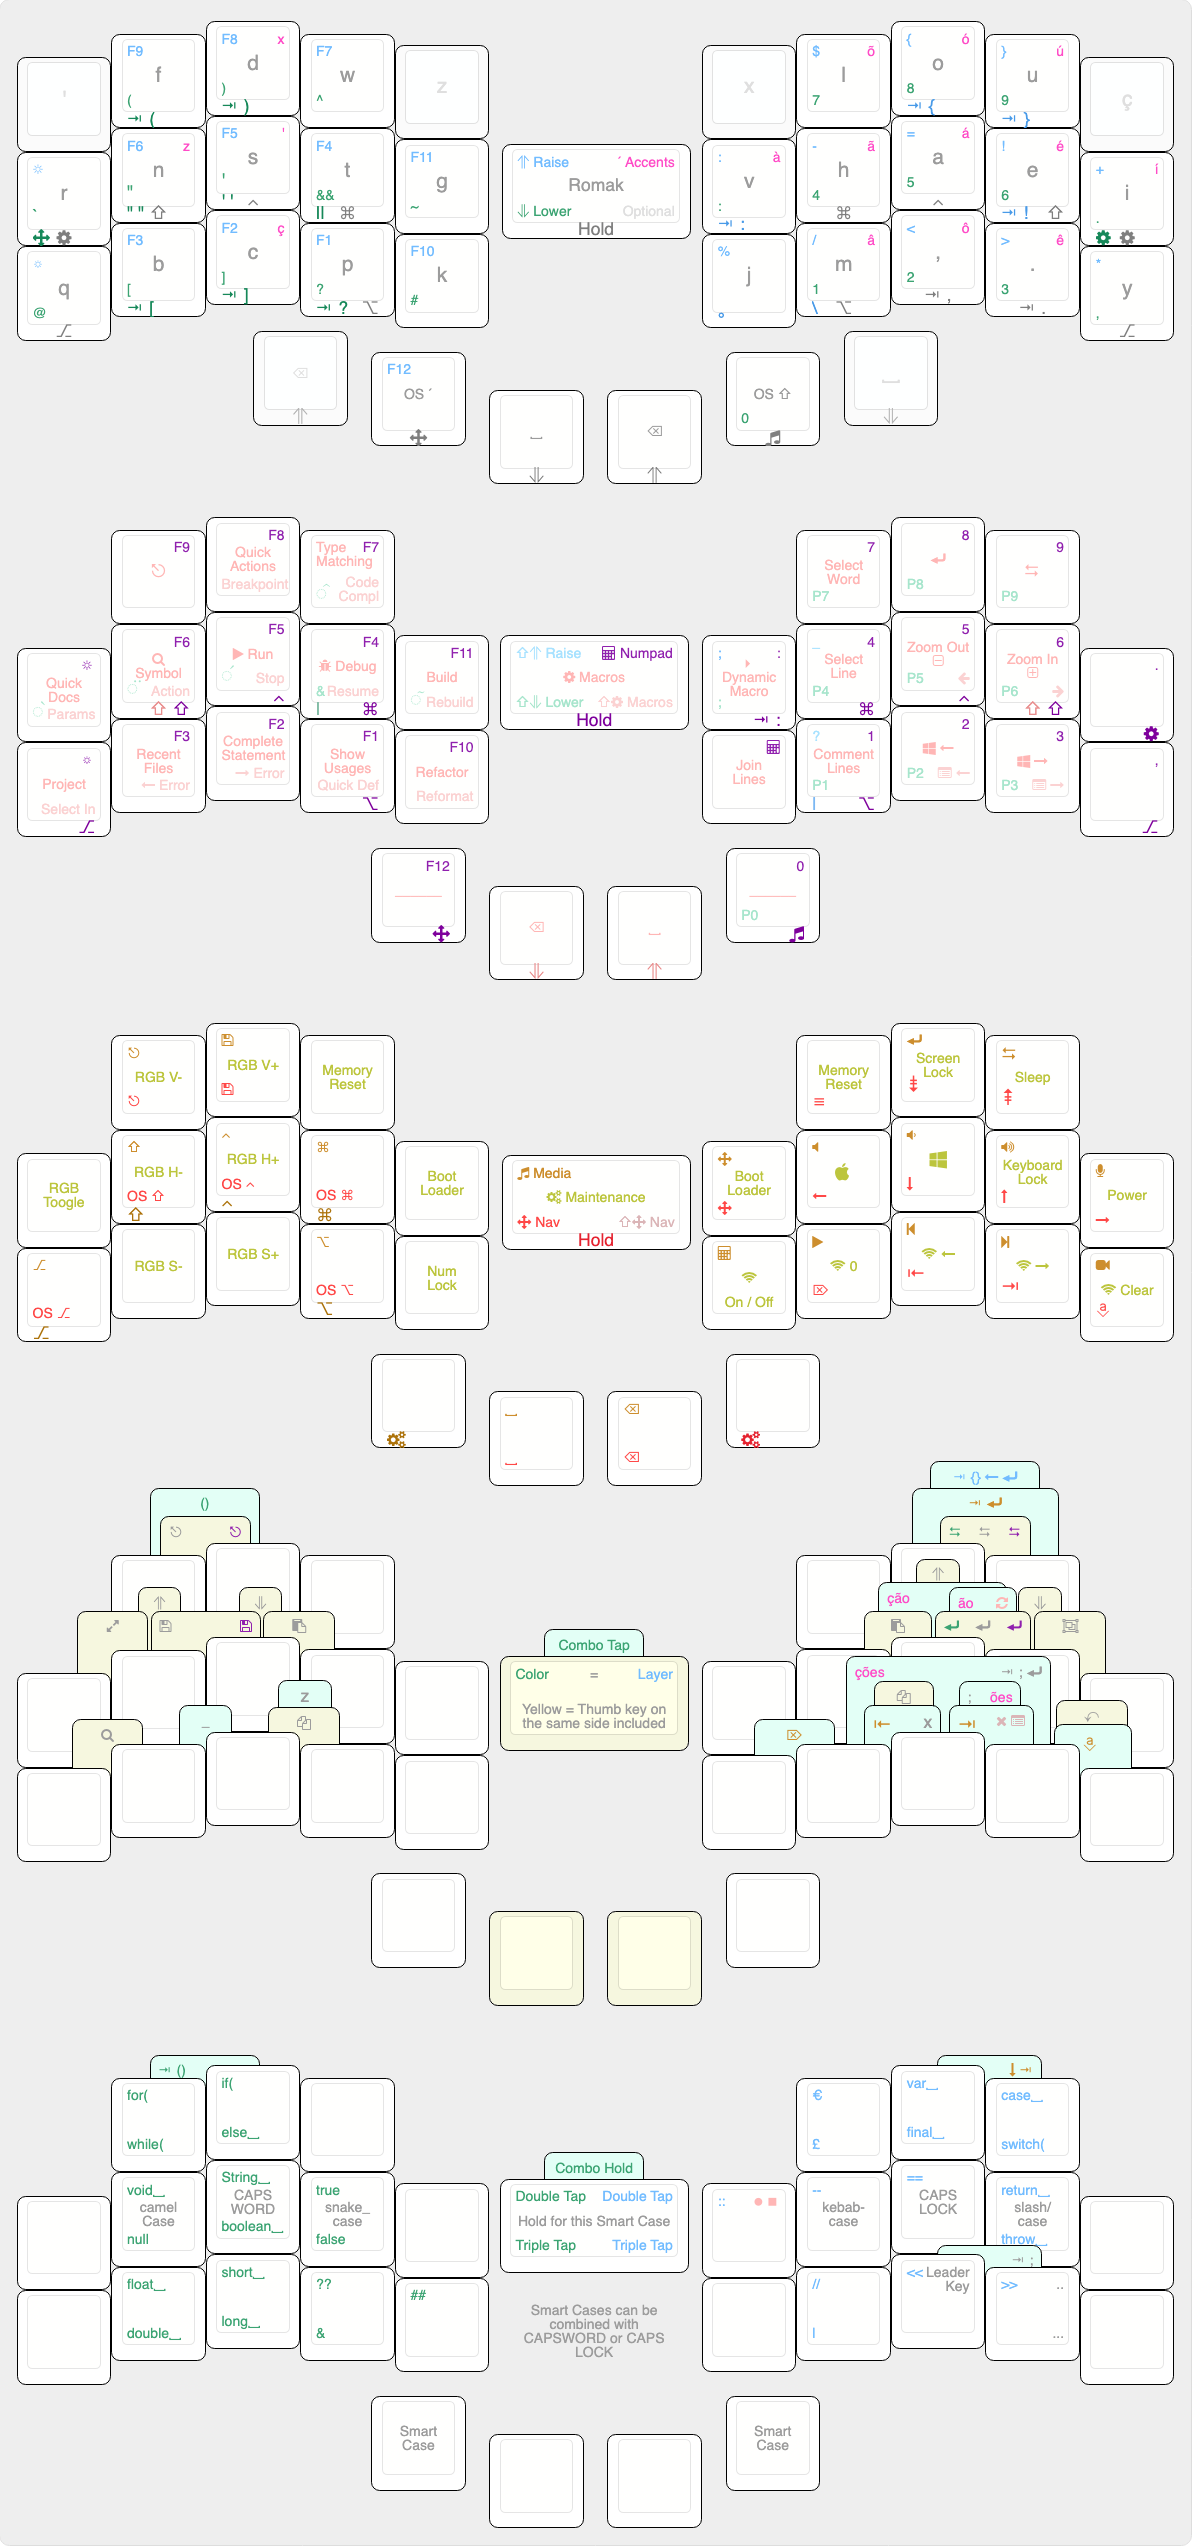
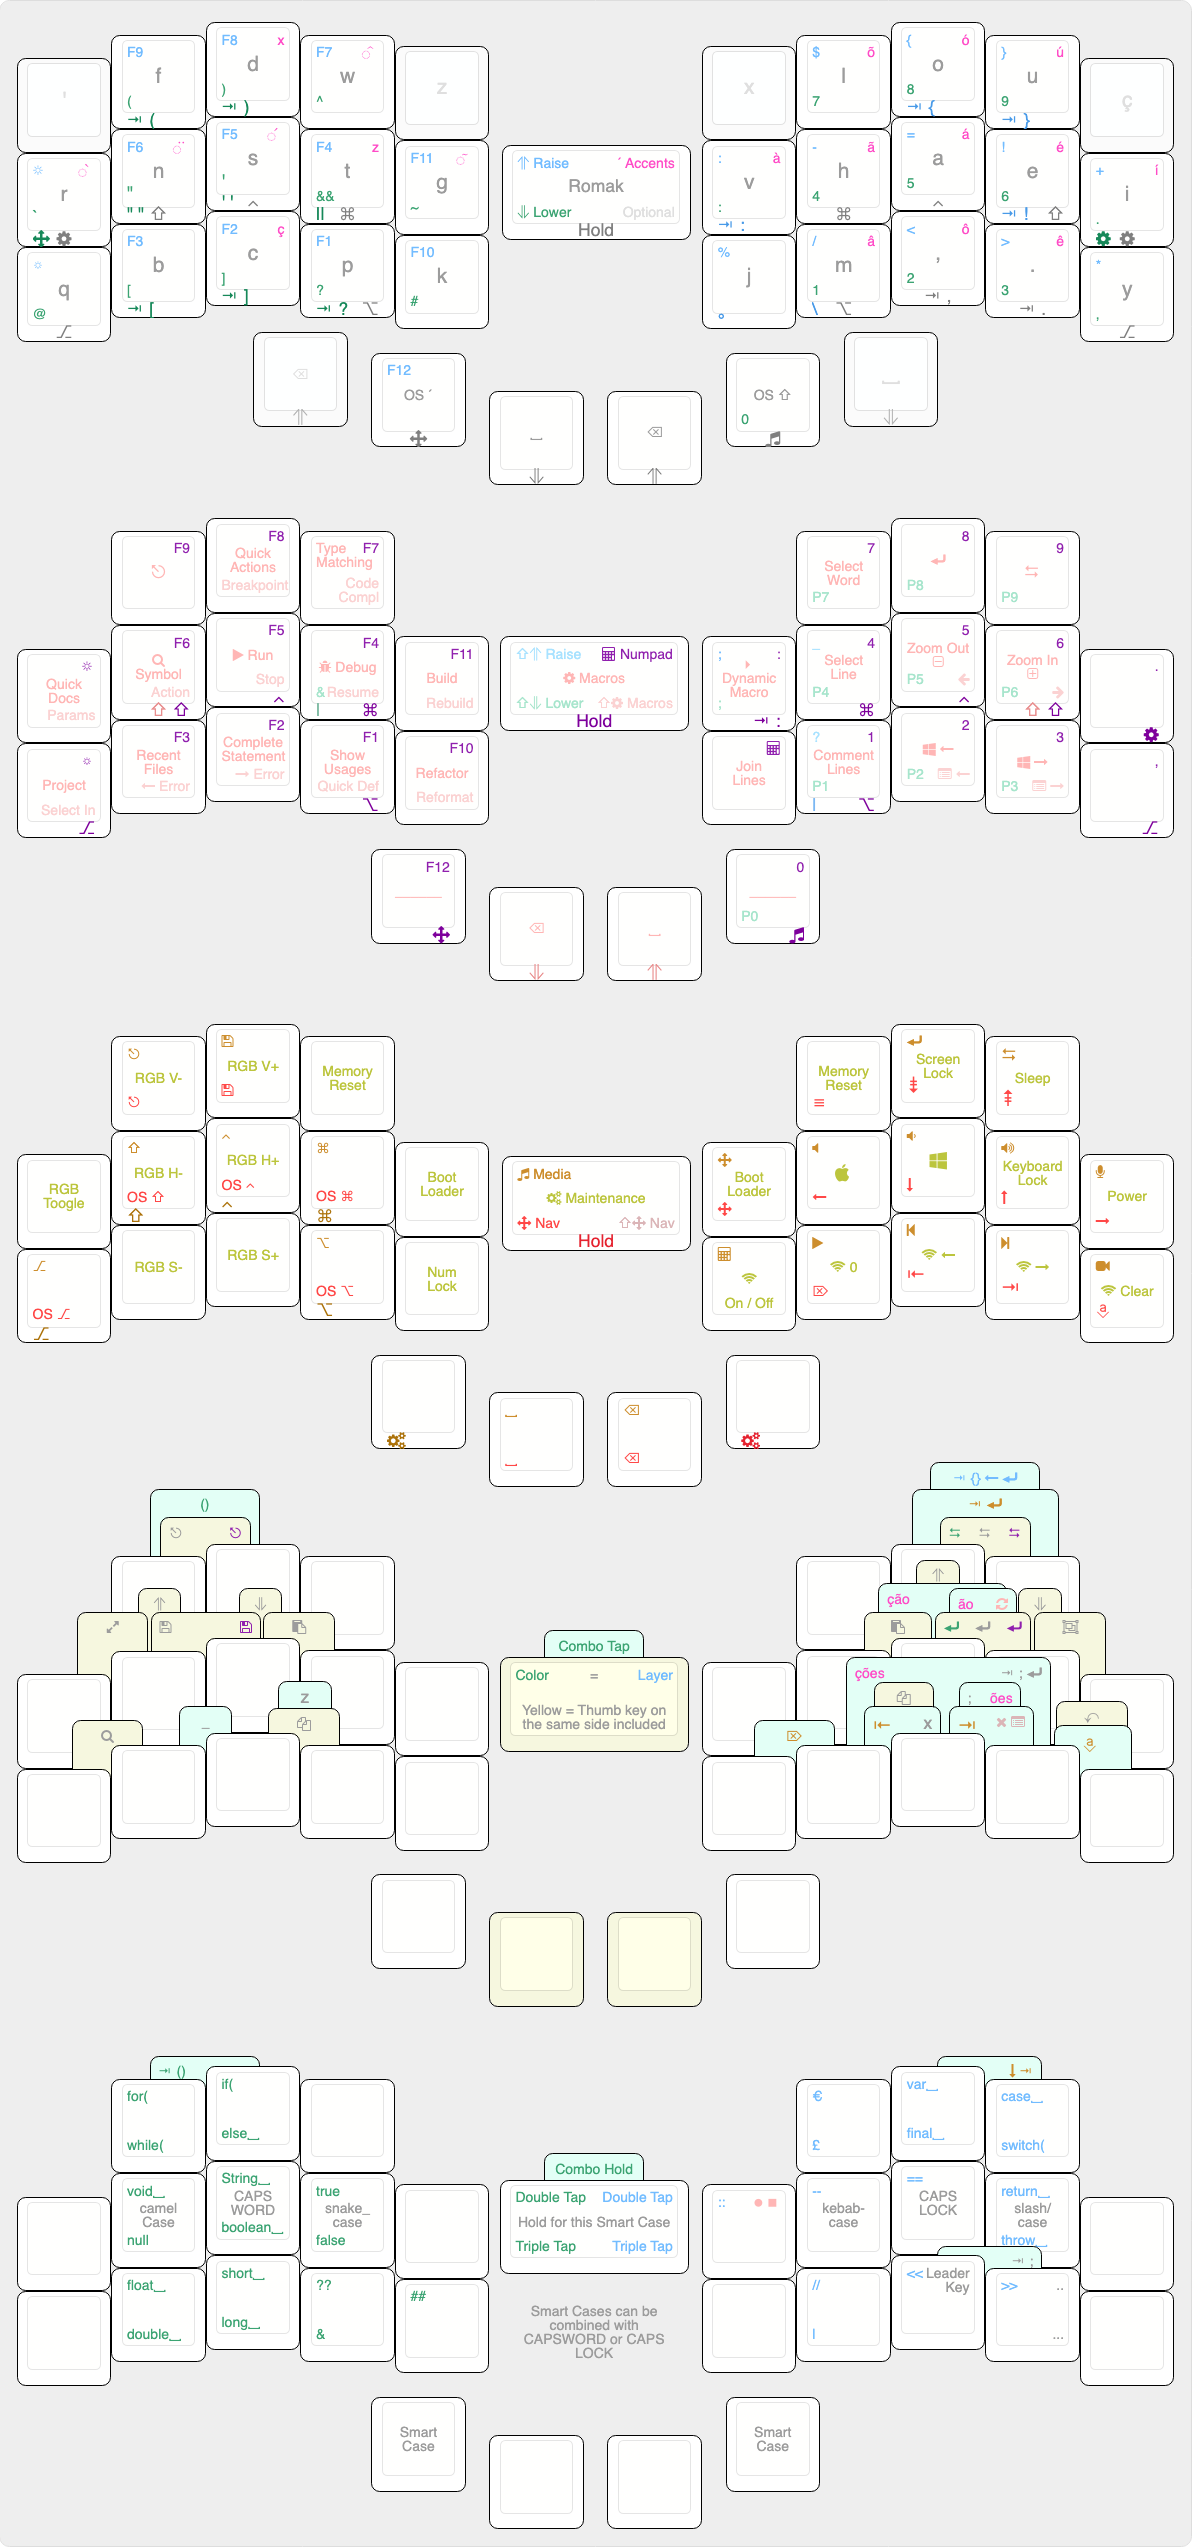
move dead keys to accents layer

diff --git a/src/qmk/users/rafaelromao/features/macros.c b/src/qmk/users/rafaelromao/features/macros.c
@@ -12,33 +12,23 @@ process_record_result_t process_macro_keycode(uint16_t keycode, bool isOneShotSh
 
         case MC_BTIC:
             tap_code(KC_GRV);
-            if (!isShifted) {
-                tap_code(KC_SPC);
-            }
+            tap_code(KC_SPC);
             return PROCESS_RECORD_RETURN_FALSE;
         case MC_DQUO:
             tap_code16(KC_DQUO);
-            if (!isShifted) {
-                tap_code(KC_SPC);
-            }
+            tap_code(KC_SPC);
             return PROCESS_RECORD_RETURN_FALSE;
         case MC_SQUO:
             tap_code(KC_QUOT);
-            if (!isShifted) {
-                tap_code(KC_SPC);
-            }
+            tap_code(KC_SPC);
             return PROCESS_RECORD_RETURN_FALSE;
         case MC_CIRC:
             tap_code16(KC_CIRC);
-            if (!isShifted) {
-                tap_code16(KC_SPC);
-            }
+            tap_code16(KC_SPC);
             return PROCESS_RECORD_RETURN_FALSE;
         case MC_TILD:
             tap_code16(KC_TILD);
-            if (!isShifted) {
-                tap_code16(KC_SPC);
-            }
+            tap_code16(KC_SPC);
             return PROCESS_RECORD_RETURN_FALSE;
 
             // Inverted underscore and minus

diff --git a/src/qmk/users/rafaelromao/definitions/keymap_blocks.h b/src/qmk/users/rafaelromao/definitions/keymap_blocks.h
@@ -15,8 +15,8 @@
 #define ___________________ROMAK_R3____________________ KC_J    , LALTT_M , TD_COMM , TD_DOT  , RALTT_Y
 #define ____ROMAK_R4_____                               RAI_BSP , MED_CAS
 
-#define ___________________ACCENT_L1___________________ XXXXXXX , XXXXXXX , KC_X    , XXXXXXX , XXXXXXX
-#define ___________________ACCENT_L2___________________ XXXXXXX , KC_Z    , TD_SQUO , XXXXXXX , XXXXXXX
+#define ___________________ACCENT_L1___________________ XXXXXXX , XXXXXXX , KC_X    , KC_CIRC , XXXXXXX
+#define ___________________ACCENT_L2___________________ KC_GRV  , KC_DQUO , KC_QUOT , KC_Z    , KC_TILD
 #define ___________________ACCENT_L3___________________ XXXXXXX , XXXXXXX , MC_SQ_C , XXXXXXX , XXXXXXX
 #define ____ACCENT_L4____                                                             _______ , KC_SPC
 

diff --git a/docs/macros.md b/docs/macros.md
@@ -6,7 +6,7 @@
 - The Accents layer has common Portuguese accented letters, readily available on a single tap of the left outer thumb key, making them as easy to type as a shifted key (which is available on a single tap of the right outer thumb key).
 - These layer also gives access to z and x, that are not available in the base layer, as well as an standalone apostrophe character.
 - There are dedicated accent keys for à á ã â é ê õ ó ô ú í and ç, which is all that is needed for Portuguese.
-- It is also possible to accent using dead keys, like usually done with the US International layout. To get a dead version of ' " ^ ~ or ` to accent a letter, just press shift before the keys that output these symbols, then type the letter you want to accent. I.e.: Shift " u produces ü. 
+- It is also possible to accent using dead keys, like usually done with the US International layout. To get a dead version of ' " ^ ~ or ` to accent a letter, just tap the OS Accents key before the keys that output these symbols, then type the letter you want to accent. I.e.: OS Accents " u produces ü. 
 - Source code: [accents.c](../src/qmk/users/rafaelromao/features/accents.c)
 
 ### Macros
